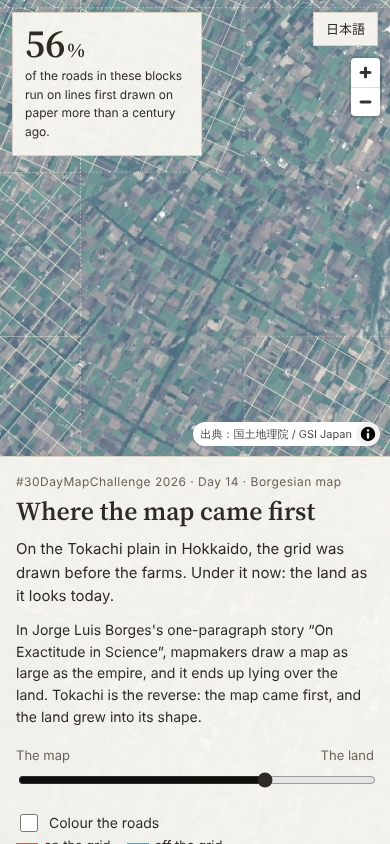
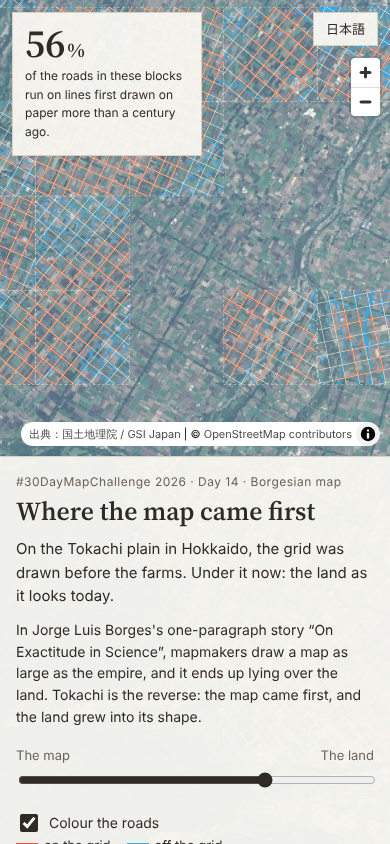
Show aerial photo and road colouring on first load

Changed region(s): [[0.0, 0.0, 1.0, 0.5545], [0.0308, 0.8934, 0.6462, 0.9858]]

diff --git a/web/app.js b/web/app.js
@@ -5,10 +5,7 @@
     en: {
       kicker: "#30DayMapChallenge 2026 · Day 14 · Borgesian map",
       title: "Where the map came first",
-      lede: "On the Tokachi plain in Hokkaido, the grid was drawn before the farms. What you see is the grid alone.",
-      ledeLand: "On the Tokachi plain in Hokkaido, the grid was drawn before the farms. Under it now: the land as it looks today.",
-      reveal: "Show the land",
-      hint: "Or scroll on the map.",
+      lede: "On the Tokachi plain in Hokkaido, the grid was drawn before the farms. Under it now: the land as it looks today.",
       borges: "In Jorge Luis Borges's one-paragraph story “On Exactitude in Science”, mapmakers draw a map as large as the empire, and it ends up lying over the land. Tokachi is the reverse: the map came first, and the land grew into its shape.",
       history: "When the Banseisha group settled at Obihiro in 1883, the rivers were still the main routes and there were only footpaths on land. Under the 1897 law for opening up state-owned wild land, the plains were divided ahead of settlement into squares of 300 ken (546 m), each split into six lots of 150 × 100 ken. One lot, 5 chōbu (about 5 ha), went to one household. Roads and fields were laid out along those lines, and the settlement survey went on until 1946.",
       method: "The lines on this map are not copied from old plans. They were fitted to today's roads: in each 4 × 4 km block, the direction of the roads gives the angle of the grid, and the lines are shifted until they sit on as many roads as possible.",
@@ -40,10 +37,7 @@
     ja: {
       kicker: "#30DayMapChallenge 2026 · Day 14 · Borgesian map",
       title: "地図が先に来た場所",
-      lede: "北海道・十勝平野では、畑より先に格子が引かれた。いま見えているのは、その格子だけ。",
-      ledeLand: "北海道・十勝平野では、畑より先に格子が引かれた。その下に、いまの土地の姿を重ねた。",
-      reveal: "土地を表示する",
-      hint: "地図の上でスクロールしても表示できます。",
+      lede: "北海道・十勝平野では、畑より先に格子が引かれた。その下に、いまの土地の姿を重ねた。",
       borges: "ボルヘスの短い物語「学問の厳密さについて」では、帝国と同じ大きさの地図が作られ、やがて領土を覆う。十勝はその逆で、先に地図があり、土地の方がその形に育った。",
       history: "1883年に晩成社が帯広に入ったころ、交通の中心はまだ川で、陸にはふみわけ道があるくらいだった。1897年の北海道国有未開地処分法のもとで、原野は入植に先立って300間（546m）四方の中区画に分けられ、それぞれが150間×100間の小区画6つに分けられた。小区画1つ、5町歩が1戸の割り当てだった。道と畑はその線に沿って作られ、殖民地選定事業は1946年まで続いた。",
       method: "この地図の線は、昔の区画図を写したものではない。いまの道路から推定した。4km四方の区画ごとに、道路の向きの分布から格子の角度を求め、道路と最もよく重なる位置に線をずらして合わせている。",
@@ -74,7 +68,6 @@
     },
   };
 
-  const reduceMotion = window.matchMedia("(prefers-reduced-motion: reduce)").matches;
   let lang = "en";
   try {
     const saved = localStorage.getItem("lang");
@@ -83,7 +76,6 @@
 
   let summary = null;
   let selected = null;
-  let revealed = false;
 
   const $ = (id) => document.getElementById(id);
   const fill = (s, v) => s.replace(/\{(\w+)\}/g, (_, k) => (v[k] !== undefined ? v[k] : ""));
@@ -158,7 +150,6 @@
     maxZoom: 17,
     maxBounds: [[142.4, 42.3], [143.9, 43.2]],
     attributionControl: false,
-    scrollZoom: false,
     style: {
       version: 8,
       sources: {
@@ -190,7 +181,7 @@
         },
         {
           id: "roads", type: "line", source: "roads",
-          layout: { visibility: "none", "line-cap": "round" },
+          layout: { "line-cap": "round" },
           paint: {
             "line-color": ["match", ["get", "on"], 1, "#e8552c", "#39a7e0"],
             "line-width": ["interpolate", ["linear"], ["zoom"], 10, 1, 14, 2.5, 17, 5],
@@ -245,30 +236,8 @@
     map.setPaintProperty("tiles-line", "line-color", t > 0.5 ? "#f6efe0" : "#8a7f70");
   }
 
-  function reveal() {
-    if (revealed) return;
-    revealed = true;
-    document.body.classList.remove("is-paper");
-    document.body.classList.add("is-land");
-    $("lede").setAttribute("data-i18n", "ledeLand");
-    applyLang();
-    map.scrollZoom.enable();
-    const target = 70;
-    $("blend").value = target;
-    setBlend(target, reduceMotion ? 0 : 3500);
-    if (!reduceMotion) {
-      map.easeTo({ zoom: map.getZoom() + 0.8, duration: 4000, easing: (x) => 1 - Math.pow(1 - x, 3) });
-    }
-    $("panel").scrollTop = 0;
-  }
-
-  $("reveal").addEventListener("click", reveal);
-  map.getCanvasContainer().addEventListener("wheel", (e) => {
-    if (!revealed && e.deltaY > 0) { e.preventDefault(); reveal(); }
-  }, { passive: false });
-  document.addEventListener("keydown", (e) => {
-    if (!revealed && (e.key === "ArrowDown" || e.key === "PageDown")) reveal();
-  });
+  const INITIAL_BLEND = 70;
+  map.on("load", () => setBlend(INITIAL_BLEND, 0));
 
   $("blend").addEventListener("input", (e) => setBlend(Number(e.target.value), 0));
 
@@ -296,5 +265,5 @@
       applyLang();
     });
 
-  window.__tokachi = { map, reveal };
+  window.__tokachi = { map };
 })();

diff --git a/web/index.html b/web/index.html
@@ -11,7 +11,7 @@
 <link href="https://fonts.googleapis.com/css2?family=Source+Serif+4:opsz,wght@8..60,400;8..60,600&family=Noto+Sans+JP:wght@400;600&display=swap" rel="stylesheet">
 <link rel="stylesheet" href="style.css">
 </head>
-<body class="is-paper">
+<body>
 <div id="map" aria-label="Map"></div>
 
 <button id="lang" class="lang" type="button" aria-label="日本語に切り替え">日本語</button>
@@ -21,11 +21,6 @@
   <h1 data-i18n="title"></h1>
   <p class="lede" id="lede" data-i18n="lede"></p>
 
-  <div id="intro-actions" class="intro-actions">
-    <button id="reveal" class="reveal" type="button" data-i18n="reveal"></button>
-    <p class="hint" data-i18n="hint"></p>
-  </div>
-
   <div id="story" class="story">
     <p data-i18n="borges"></p>
 
@@ -34,15 +29,15 @@
         <span data-i18n="mapEnd"></span>
         <span data-i18n="landEnd"></span>
       </label>
-      <input id="blend" type="range" min="0" max="100" value="0" step="1">
+      <input id="blend" type="range" min="0" max="100" value="70" step="1">
     </div>
 
     <div class="control">
       <label class="check">
-        <input id="roads" type="checkbox">
+        <input id="roads" type="checkbox" checked>
         <span data-i18n="roadsToggle"></span>
       </label>
-      <p class="legend" id="legend" hidden>
+      <p class="legend" id="legend">
         <span class="sw sw-on"></span><span data-i18n="onGrid"></span>
         <span class="sw sw-off"></span><span data-i18n="offGrid"></span>
       </p>

diff --git a/web/style.css b/web/style.css
@@ -55,23 +55,6 @@ html[lang="ja"] h1 { font-family: "Noto Sans JP", var(--sans); font-size: 28px; 
 .lede { margin: 0 0 18px; font-size: 16px; }
 .story p { margin: 0 0 12px; }
 
-.intro-actions { margin: 6px 0 4px; }
-.reveal {
-  font: inherit;
-  font-weight: 600;
-  padding: 10px 16px;
-  color: var(--paper);
-  background: var(--ink);
-  border: 0;
-  cursor: pointer;
-}
-.reveal:hover, .reveal:focus-visible { background: var(--accent); }
-.hint { margin: 8px 0 0; font-size: 13px; color: var(--ink-soft); }
-
-.story { display: none; }
-body.is-land .story { display: block; }
-body.is-land .intro-actions { display: none; }
-
 .control { margin: 18px 0; }
 .control-label {
   display: flex;
@@ -161,7 +144,6 @@ input[type="range"] { width: 100%; accent-color: var(--ink); }
     border-right: 0;
     border-bottom: 0;
   }
-  body.is-paper .panel { max-height: 62vh; }
   h1 { font-size: 26px; }
   .lede { font-size: 15px; margin-bottom: 12px; }
   .stat {
@@ -178,5 +160,4 @@ input[type="range"] { width: 100%; accent-color: var(--ink); }
   .stat-sub { display: none; }
   .lang { top: 12px; right: 12px; }
   .maplibregl-ctrl-bottom-right { bottom: 46vh; }
-  body.is-paper .maplibregl-ctrl-bottom-right { bottom: 62vh; }
 }

diff --git a/scripts/check_site.js b/scripts/check_site.js
@@ -21,11 +21,6 @@ const path = require("path");
   await page.goto(url, { waitUntil: "networkidle" });
   await page.waitForFunction(() => window.__tokachi && window.__tokachi.map.loaded());
   await page.waitForTimeout(1000);
-  await page.screenshot({ path: path.join(__dirname, "..", "docs", "screenshot-paper.png") });
-
-  await page.click("#reveal");
-  await page.waitForTimeout(4500);
-  await page.check("#roads");
   await page.evaluate(() => {
     const m = window.__tokachi.map;
     const el = document.getElementById("blend");
@@ -49,8 +44,7 @@ const path = require("path");
   const mobile = await browser.newPage({ viewport: { width: 390, height: 844 }, deviceScaleFactor: 1 });
   mobile.on("pageerror", (e) => problems.push(`mobile pageerror: ${e.message}`));
   await mobile.goto(url, { waitUntil: "networkidle" });
-  await mobile.click("#reveal");
-  await mobile.waitForTimeout(4500);
+  await mobile.waitForTimeout(2000);
   await mobile.screenshot({ path: path.join(__dirname, "..", "docs", "screenshot-mobile.png") });
   const overflow = await mobile.evaluate(() => document.documentElement.scrollWidth > window.innerWidth);
 

diff --git a/README.md b/README.md
@@ -13,13 +13,12 @@
 
 明治期の北海道では、原野は入植に先立って区画されました。1897年（明治30年）の北海道国有未開地処分法のもと、300間（546m）四方の中区画を設け、それを150間×100間の小区画6つに分け、小区画1つ（5町歩）を1戸に割り当てる殖民地選定事業が行われ（1946年まで継続）、十勝の300間区画の圃場が形づくられました（農林水産省）。1883年に晩成社が帯広に入ったころは、交通の中心は川で、陸にはふみわけ道がある程度でした（北海道開発局）。
 
-画面は、白い紙の上に格子だけが描かれた状態から始まります。ボタンかスクロールで航空写真が浮かび上がり、格子の線の上に今の道と畑が並んでいることが分かります。
+航空写真の上に、今の道路から推定した格子と、格子の上を走る道路・外れる道路を重ねて表示します。スライダーを左に動かすと、白い紙の上に格子だけが残ります。
 
 - 英語表記が既定で、右上のボタンで日本語に切り替えられます。
 - スライダーで「地図（格子）」と「土地（航空写真）」の見え方を切り替えます。
-- 「道路を色分けする」で、格子の上を走る道路（橙）と外れる道路（青）を表示します。
+- 道路は、格子の上を走るもの（橙）と外れるもの（青）に色分けして表示します。「道路を色分けする」で表示を切り替えられます。
 - 区画（4km四方）をクリックすると、格子の向き、格子の上を走る道路の割合、線の間隔が出ます。
-- 端末で「視差効果を減らす（prefers-reduced-motion）」が有効な場合、フェードとズームの演出は行いません。
 
 ## 結果
 
